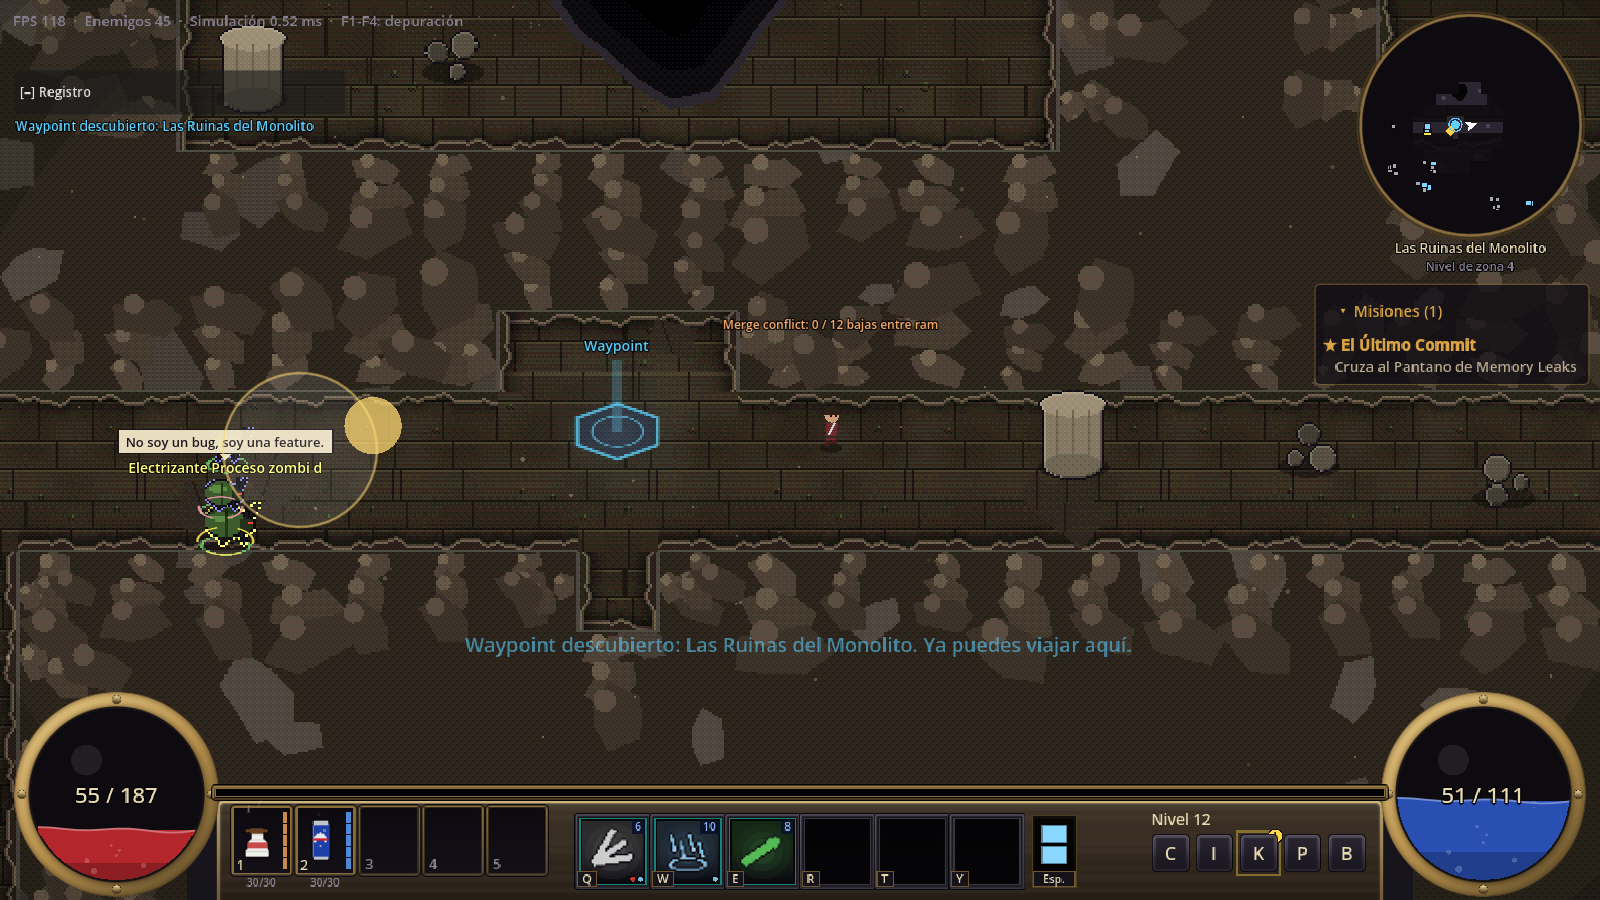
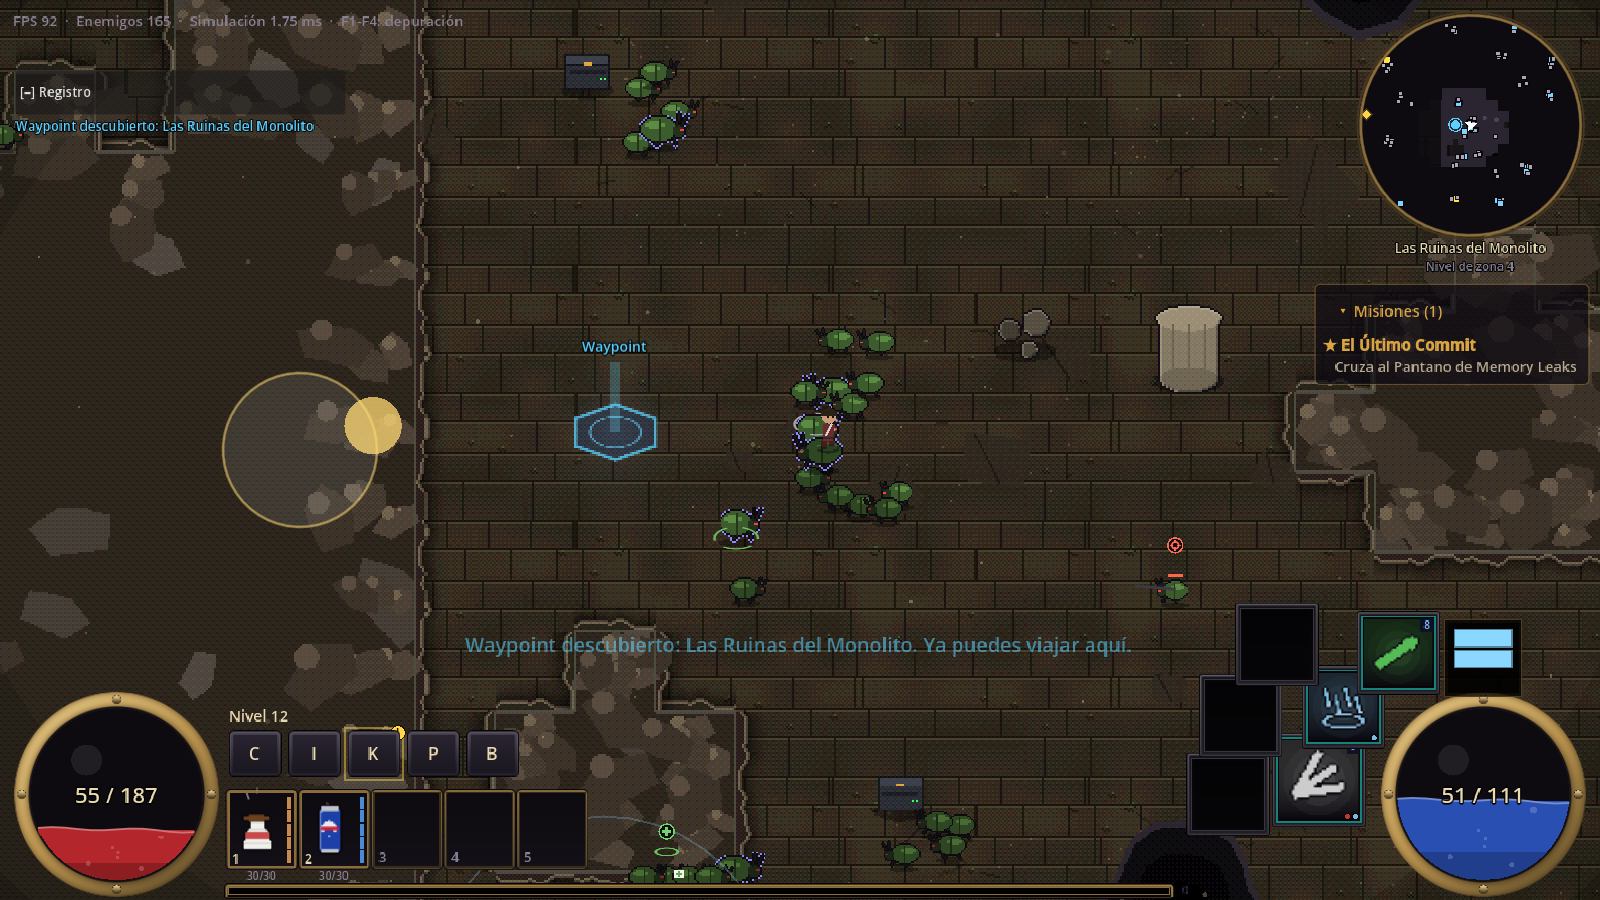
T108: botones táctiles de habilidades en dos arcos junto al orbe de maná (mantener canaliza, arrastrar apunta), esquiva y pociones tocables, y HUD sin placa en táctil

diff --git a/docs/roadmap.md b/docs/roadmap.md
@@ -821,10 +821,11 @@ Origen: R5
 - Opción en Pausa → Controles para ocultar los controles táctiles.
 - Hecho: `Touch` (lógica: `stick_vector` con zona muerta, `aim_index` con un cono de 40° y alcance de 520 px, `active` desde el último toque, `shown`/`set_enabled` en `settings.cfg` → controls/touch) y `TouchControls` en `GameUI`, encima del HUD: el joystick empieza donde apoyas el dedo en la franja izquierda (sin el registro de arriba ni el orbe de vida), no empieza con una ventana, el diálogo, la pausa o una escena encima, y se suelta si se abre una. Se come el clic que Godot emula desde ese toque para que el personaje no camine hacia el dedo. `Player` suma `Touch.stick` como el stick del mando (también para la esquiva) y `SkillController._aim_target` apunta con `Touch.aim_index`; la mira roja la dibuja `TouchControls`. **Arreglo de paso**: `get_global_mouse_position` lee el cursor del sistema, que el toque no siempre mueve, y tocar el mundo iba hacia otro lado; `Touch.pointer` usa el último toque en `Player`, el botín, los NPC y los sucesos de zona. Interruptor «Controles táctiles» en Pausa → Controles. Capturas `capture_screens -- tactil` (toques simulados con su clic emulado) en `docs/capturas/movil/`: el joystick mueve en su dirección, al soltar vuelve a cero y tocar el mundo lleva hasta allí. Prueba `_test_touch_controls`. Sin probar en un teléfono de verdad (eso, con el APK de T110).
 
-### [ ] T108 · Controles táctiles: habilidades, esquiva y pociones · M
+### [x] T108 · Controles táctiles: habilidades, esquiva y pociones · M
 Origen: R5
 - Botones grandes a la derecha en arco para las 6 habilidades (con su icono, enfriamiento y coste, como la barra del HUD), un botón de **esquiva** y la fila de **pociones** tocables; mantener pulsado = canalizar o repetir; arrastrar desde un botón = apuntar a mano.
 - La barra del HUD de escritorio se recoloca o se oculta en táctil para no duplicar; los botones de menú (C I K P B) más grandes.
+- Hecho: el `Hud` tiene una forma táctil (`touch_layout`, sigue a `Touch.shown()`): sin la placa, las 6 casillas de siempre (icono, enfriamiento, coste, RAM, AUTO y ON; sin la chapita de la tecla) en **dos arcos** a la izquierda del orbe de maná (`TOUCH_RING`; la 1 más grande, 76 px, y las demás de 66), la esquiva encima del orbe, pociones de 60×68 y botones de menú de 48×42 abajo a la izquierda, fuera del joystick, y la barra de experiencia debajo. **Decisión**: un solo arco de 6 no cabía sin montarse ni subir hasta el registro de misiones con la interfaz al 140 % (el valor del celular); con dos arcos, a 140 % el botón más alto empieza 38 px por debajo de las misiones. `Hud.touch_button_at` dice qué botón hay bajo un dedo y `TouchControls` lleva cada dedo por su lado (joystick y botones a la vez): una habilidad es `Input.action_press` de su acción mientras el dedo esté (así canalizar y repetir son lo de siempre), arrastrar ≥26 px desde ella pone `Touch.aim_dir` (apuntado a mano, con línea discontinua hasta el punto; `Touch.manual_target`, de 120 px al alcance entero) y soltar vuelve al automático; la esquiva es la acción `dodge` y la poción, `use_flask`. Una ventana encima suelta todo. Comprobado con toques simulados (`capture_screens -- tactil`): mantener la 1 arrastrando la lanzó 3 veces en 1,2 s, la esquiva gastó su carga y la poción sus cargas; capturas a 100 % y 140 % en `docs/capturas/movil/`. Pruebas en `_test_touch_controls`.
 
 ### [ ] T109 · Interfaz táctil · M 🛑
 Origen: R5
@@ -994,3 +995,4 @@ No las ejecuta Claude solo; quedan aquí para no perderlas.
 - 2026-10-27 · T131 · Versión 3.0 aprobada por el usuario; se sigue con la fase móvil.
 - 2026-10-27 · T106 · Renderizador `mobile` y horizontal fijo en el celular, con calidad media, interfaz al 140 % y como mucho 12 luces por defecto; los efectos funcionan igual con el renderizador móvil y cuesta lo mismo en este equipo.
 - 2026-10-27 · T107 · Joystick virtual que aparece bajo el dedo a la izquierda, tocar el mundo como el clic (con el último toque, no el cursor del sistema), apuntado automático al enemigo en la dirección del joystick con mira, e interruptor en Pausa → Controles.
+- 2026-10-27 · T108 · Botones táctiles: las 6 habilidades en dos arcos junto al orbe de maná (mantener = canalizar o repetir, arrastrar = apuntar a mano), esquiva encima del orbe, pociones y menús grandes a la izquierda; la placa del HUD desaparece en táctil.

diff --git a/README.md b/README.md
@@ -38,7 +38,7 @@ Por ahora es solo para un jugador en local, pero la lógica está escrita para p
 
 Todas las teclas están en *Proyecto → Configuración del proyecto → Mapa de entrada*. Pasa el ratón por cualquier elemento del HUD para ver una ayuda.
 
-**Pantalla táctil**: apoya el dedo en la parte izquierda de la pantalla y aparece un **joystick** donde lo pusiste (con zona muerta); arrástralo para moverte. Tocar el mundo fuera de él hace lo mismo que el clic: ir ahí, recoger botín o hablar con un NPC. Las habilidades **apuntan solas** al enemigo más cercano en la dirección del joystick (o al más cercano si no lo mueves), marcado con una mira roja. Se ocultan en Pausa → Controles → «Controles táctiles» y solo salen con pantalla táctil.
+**Pantalla táctil**: apoya el dedo en la parte izquierda de la pantalla y aparece un **joystick** donde lo pusiste (con zona muerta); arrástralo para moverte. Tocar el mundo fuera de él hace lo mismo que el clic: ir ahí, recoger botín o hablar con un NPC. Las habilidades **apuntan solas** al enemigo más cercano en la dirección del joystick (o al más cercano si no lo mueves), marcado con una mira roja. Con pantalla táctil, la barra del HUD cambia de forma: las **6 habilidades en dos arcos** a la izquierda del orbe de maná (la 1, la más grande y a mano del pulgar), la **esquiva** encima del orbe y las **pociones** y los botones de menú, más grandes, abajo a la izquierda. Mantener una habilidad la canaliza o la repite; **arrastrar el dedo desde ella apunta a mano** (línea discontinua hasta el punto). Se ocultan en Pausa → Controles → «Controles táctiles» y solo salen con pantalla táctil.
 
 **Objetos**: arrastrar y soltar entre bolsa, equipo, barra de habilidades y ranuras DIMM (intercambia si hace falta; las reglas están en `ItemTransfer`). Soltar un objeto fuera de los paneles lo tira al suelo; ya no se pueden destruir con un click.
 
